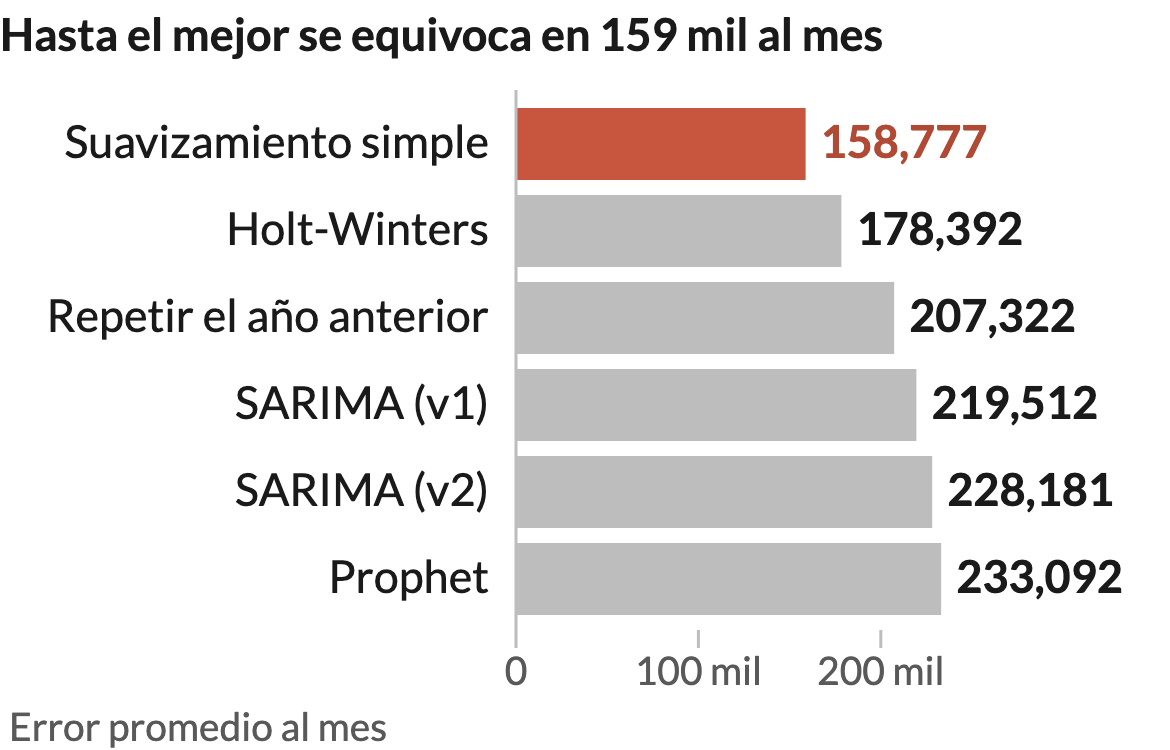
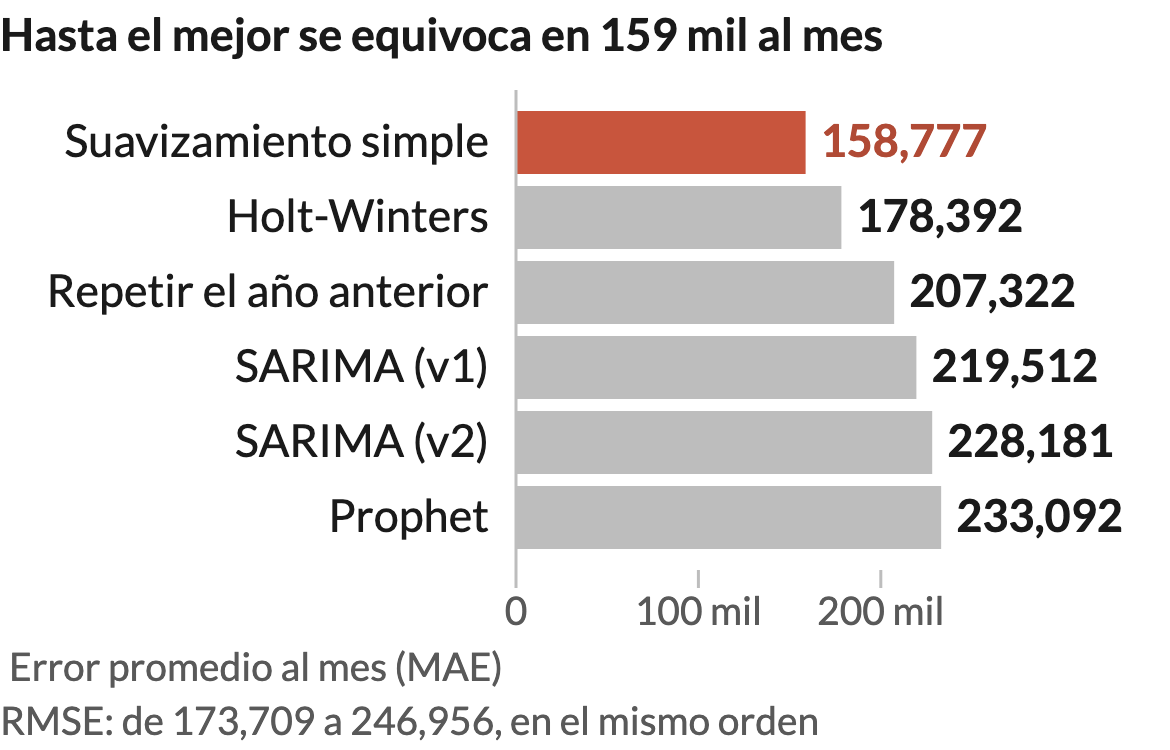
feat: mostrar RMSE como nota en el gráfico de modelos

diff --git a/scripts/js/05_modelos.js b/scripts/js/05_modelos.js
@@ -15,18 +15,22 @@ const datos = leerDatos("metricas_modelos").datos.map((d) => ({ ...d, nombre: CO
 const mejor = datos[0];
 afirmar(datos.every((d) => d.mae >= mejor.mae), "el primer modelo es el de menor MAE");
 const lectura = `Hasta el mejor se equivoca en ${Math.round(mejor.mae / 1000)} mil al mes`;
+// El RMSE va como nota porque ordena a los modelos igual que el MAE; así se muestra sin duplicar las seis cifras.
+afirmar(datos.every((d, i) => i === 0 || d.rmse >= datos[i - 1].rmse), "el RMSE ordena a los modelos igual que el MAE");
+const notaRmse = `RMSE: de ${miles(mejor.rmse)} a ${miles(datos.at(-1).rmse)}, en el mismo orden`;
 const ALTO_LECTURA = 26;
+const ALTO_NOTA = 20;
 
 const grafico = Plot.plot({
   document: documento(),
   width: ancho,
-  height: alto - ALTO_LECTURA,
+  height: alto - ALTO_LECTURA - ALTO_NOTA,
   marginLeft: 172,
   marginRight: 66,
   marginTop: 4,
   marginBottom: 40,
   style: ESTILO,
-  x: { domain: [0, 250000], label: "Error promedio al mes" },
+  x: { domain: [0, 250000], label: "Error promedio al mes (MAE)" },
   y: { domain: datos.map((d) => d.nombre), label: null, padding: 0.18 },
   marks: [
     Plot.axisY({ tickSize: 0, fill: PALETA.texto }),
@@ -45,5 +49,6 @@ guardarSvg(
   `<svg xmlns="http://www.w3.org/2000/svg" width="${ancho}" height="${alto}" viewBox="0 0 ${ancho} ${alto}" style="font-family:${ESTILO.fontFamily};background:${PALETA.fondo}">
   <text x="0" y="17" font-size="${FUENTE_ETIQUETA}" font-weight="700" fill="${PALETA.texto}">${lectura}</text>
   <g transform="translate(0,${ALTO_LECTURA})">${grafico.outerHTML}</g>
+  <text x="0" y="${alto - 5}" font-size="${FUENTE_SECUNDARIA}" fill="${PALETA.texto_secundario}">${notaRmse}</text>
 </svg>`
 );
